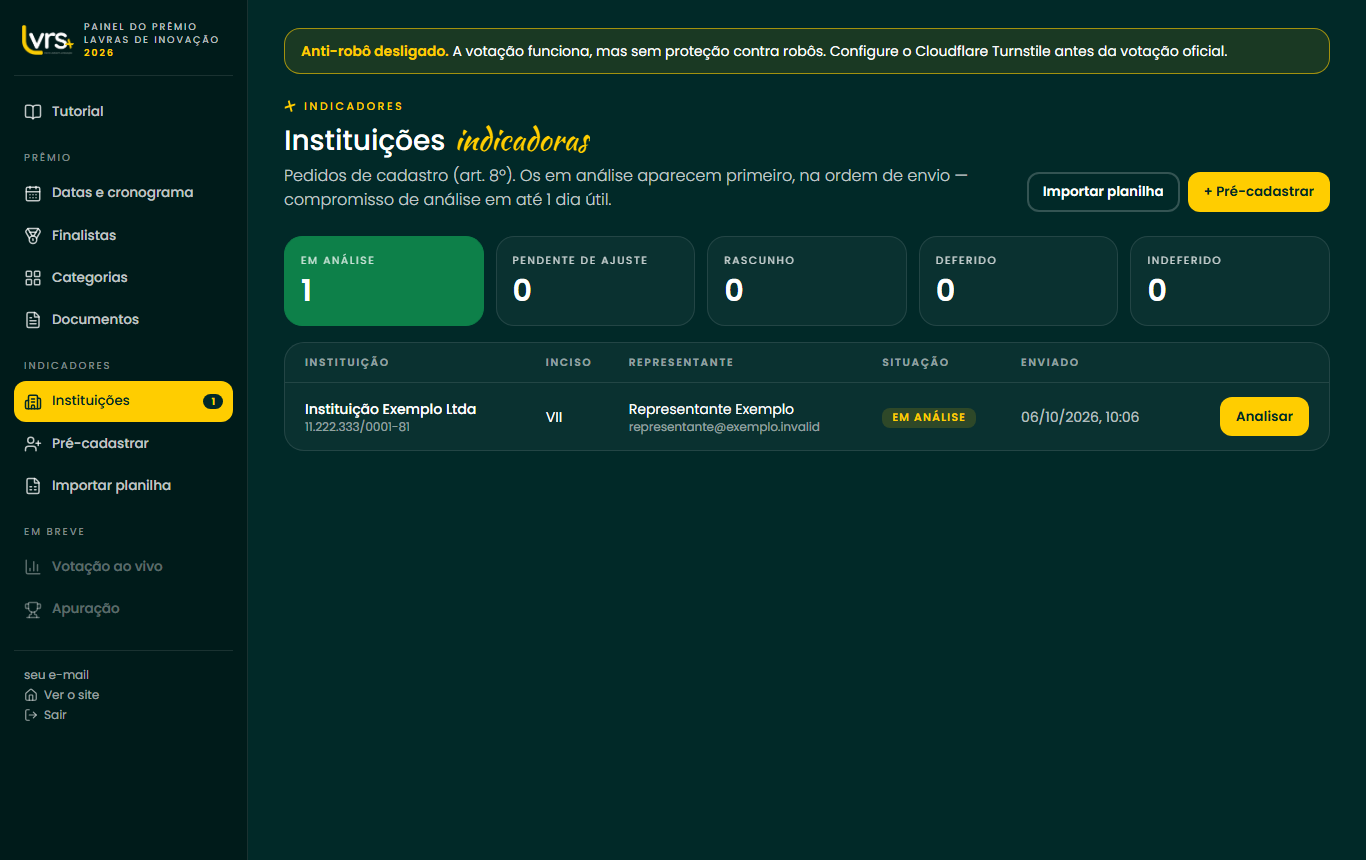
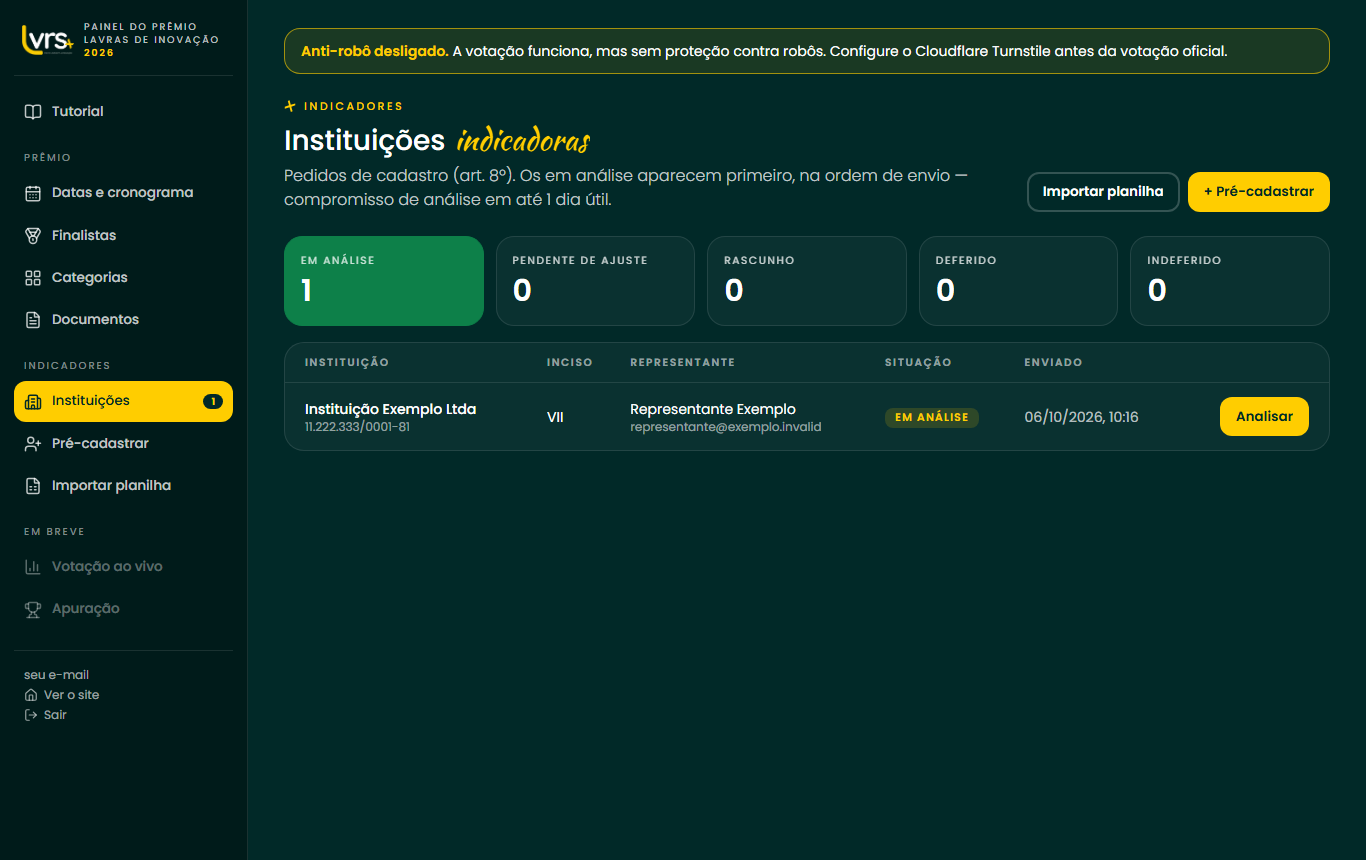
Tutorial: contorno no alvo e seta até a borda

diff --git a/src/app/admin/tutorial/tutorial.tsx b/src/app/admin/tutorial/tutorial.tsx
@@ -4,7 +4,7 @@
 import { useState } from "react";
 import { cn } from "@/lib/utils";
 
-export type Ponto = { x: number; y: number; legenda: string };
+export type Ponto = { x: number; y: number; w?: number; h?: number; legenda: string };
 export type Tela = { imagem: string; pontos: Ponto[] };
 export type Topico = { id: string; titulo: string; telas: Tela[] };
 
@@ -12,19 +12,22 @@ export type Topico = { id: string; titulo: string; telas: Tela[] };
 const W = 1366;
 const H = 860;
 
-// Cada marcador fica na mesma altura do alvo, ao lado (seta horizontal);
-// se encostar em outro marcador, desce ou sobe um pouco.
+// Cada alvo ganha um contorno amarelo; o marcador fica ao lado, na mesma altura, e a seta
+// para na borda do contorno (sem cobrir o texto). Se encostar em outro marcador, desloca.
 function posicionar(pontos: Ponto[]) {
-  const pinos: { tx: number; ty: number; px: number; py: number }[] = [];
+  const pinos: { cx: number; cy: number; bw: number; bh: number; px: number; py: number; esquerda: boolean }[] = [];
   for (const p of pontos) {
-    const tx = (p.x / 100) * W;
-    const ty = (p.y / 100) * H;
-    const px = tx > 320 ? tx - 190 : tx + 190;
-    let py = ty;
+    const cx = (p.x / 100) * W;
+    const cy = (p.y / 100) * H;
+    const bw = Math.max(44, ((p.w ?? 3) / 100) * W + 12);
+    const bh = Math.max(36, ((p.h ?? 4) / 100) * H + 10);
+    const esquerda = cx - bw / 2 > 140; // há espaço à esquerda do alvo?
+    const px = esquerda ? cx - bw / 2 - 90 : cx + bw / 2 + 90;
+    let py = cy;
     for (let k = 1; k < 10 && pinos.some((o) => Math.hypot(o.px - px, o.py - py) < 64); k++) {
-      py = Math.min(H - 34, Math.max(34, ty + (k % 2 ? 1 : -1) * Math.ceil(k / 2) * 64));
+      py = Math.min(H - 34, Math.max(34, cy + (k % 2 ? 1 : -1) * Math.ceil(k / 2) * 64));
     }
-    pinos.push({ tx, ty, px, py });
+    pinos.push({ cx, cy, bw, bh, px, py, esquerda });
   }
   return pinos;
 }
@@ -33,22 +36,20 @@ function Marcadores({ pontos, inicio }: { pontos: Ponto[]; inicio: number }) {
   return (
     <svg viewBox={`0 0 ${W} ${H}`} className="pointer-events-none absolute inset-0 size-full" aria-hidden>
       <defs>
-        <marker id="ponta" viewBox="0 0 10 10" refX="8" refY="5" markerWidth="7" markerHeight="7" orient="auto-start-reverse">
+        <marker id="ponta" viewBox="0 0 10 10" refX="8" refY="5" markerWidth="6" markerHeight="6" orient="auto-start-reverse">
           <path d="M0 0 10 5 0 10z" fill="#ffcd00" />
         </marker>
       </defs>
-      {posicionar(pontos).map(({ tx, ty, px, py }, i) => {
-        const ang = Math.atan2(ty - py, tx - px);
-        const sx = px + Math.cos(ang) * 28;
-        const sy = py + Math.sin(ang) * 28;
-        const ex = tx - Math.cos(ang) * 30;
-        const ey = ty - Math.sin(ang) * 30;
+      {posicionar(pontos).map(({ cx, cy, bw, bh, px, py, esquerda }, i) => {
+        const bordaX = esquerda ? cx - bw / 2 - 6 : cx + bw / 2 + 6;
+        const bordaY = Math.min(cy + bh / 2, Math.max(cy - bh / 2, py));
+        const sx = px + (esquerda ? 27 : -27);
         return (
           <g key={i}>
-            <circle cx={tx} cy={ty} r="26" fill="none" stroke="#ffcd00" strokeWidth="4" className="tut-pulso" />
-            <line x1={sx} y1={sy} x2={ex} y2={ey} stroke="#ffcd00" strokeWidth="5" strokeLinecap="round" markerEnd="url(#ponta)" />
-            <circle cx={px} cy={py} r="26" fill="#ffcd00" stroke="#012928" strokeWidth="4" />
-            <text x={px} y={py + 10} textAnchor="middle" fontSize="28" fontWeight="700" fill="#012928" fontFamily="Poppins, sans-serif">
+            <rect x={cx - bw / 2} y={cy - bh / 2} width={bw} height={bh} rx="12" fill="none" stroke="#ffcd00" strokeWidth="4" className="tut-pulso" />
+            <line x1={sx} y1={py} x2={bordaX} y2={bordaY} stroke="#ffcd00" strokeWidth="5" strokeLinecap="round" markerEnd="url(#ponta)" />
+            <circle cx={px} cy={py} r="25" fill="#ffcd00" stroke="#012928" strokeWidth="4" />
+            <text x={px} y={py + 10} textAnchor="middle" fontSize="27" fontWeight="700" fill="#012928" fontFamily="Poppins, sans-serif">
               {inicio + i}
             </text>
           </g>

diff --git a/src/app/globals.css b/src/app/globals.css
@@ -122,8 +122,8 @@ body {
   animation: tut-pulso 1.6s ease-out infinite;
 }
 @keyframes tut-pulso {
-  0% { transform: scale(0.8); opacity: 1; }
-  100% { transform: scale(1.6); opacity: 0; }
+  0%, 100% { opacity: 1; }
+  50% { opacity: 0.35; }
 }
 
 @media (prefers-reduced-motion: reduce) {
